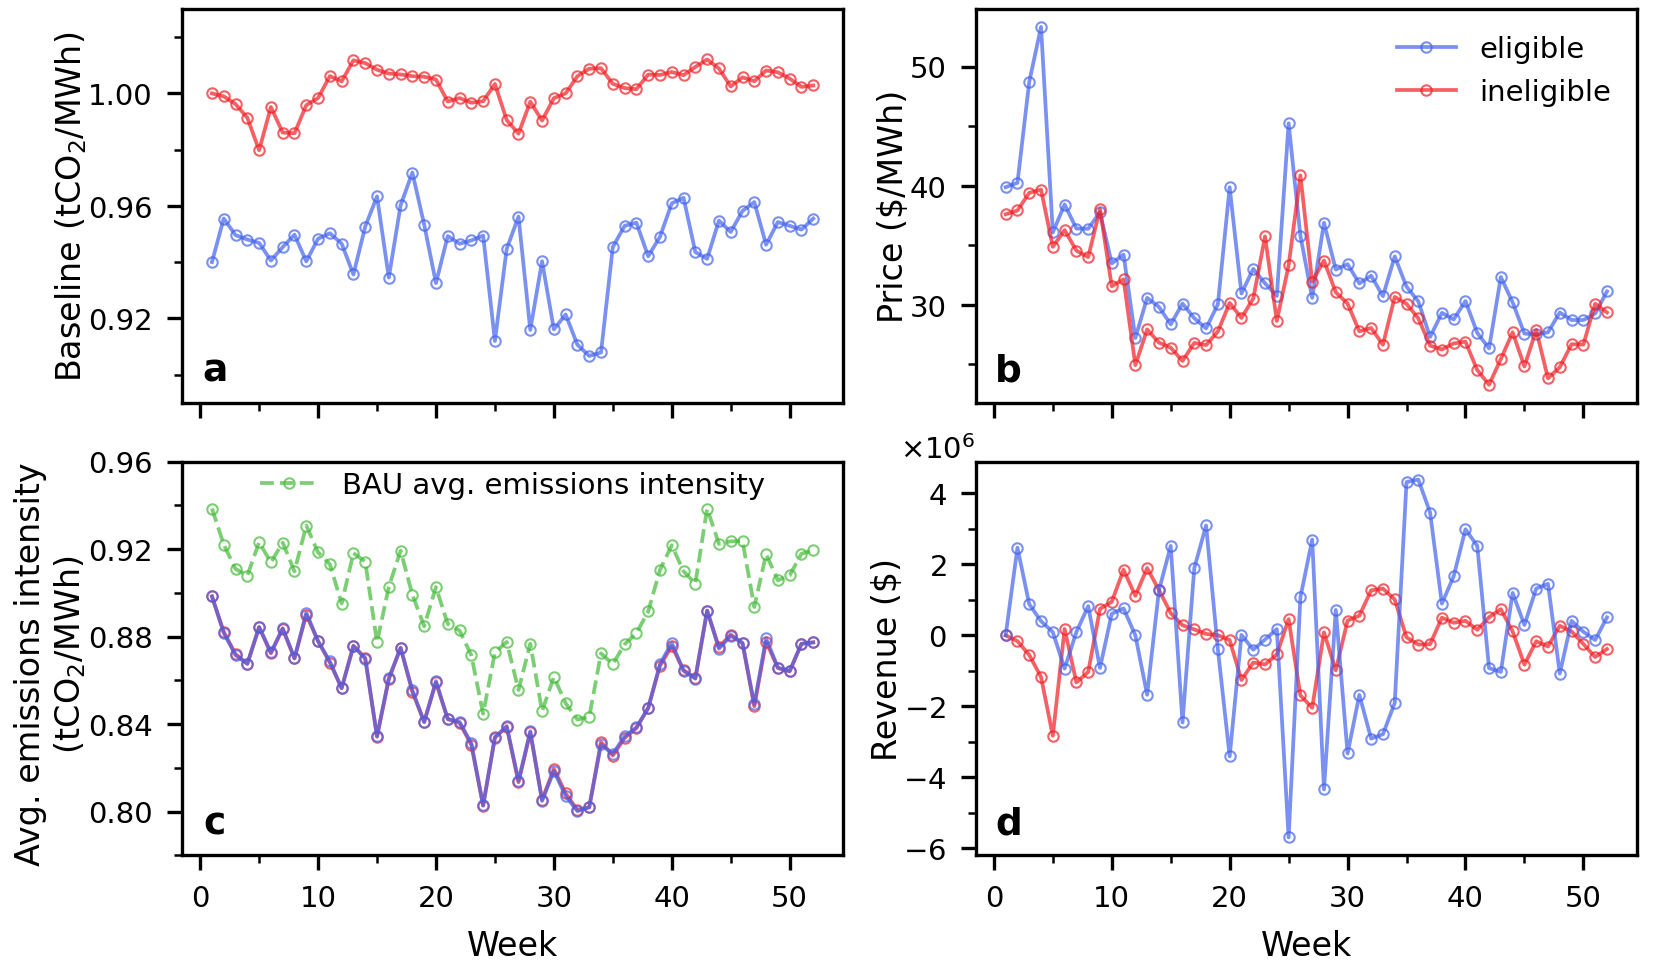
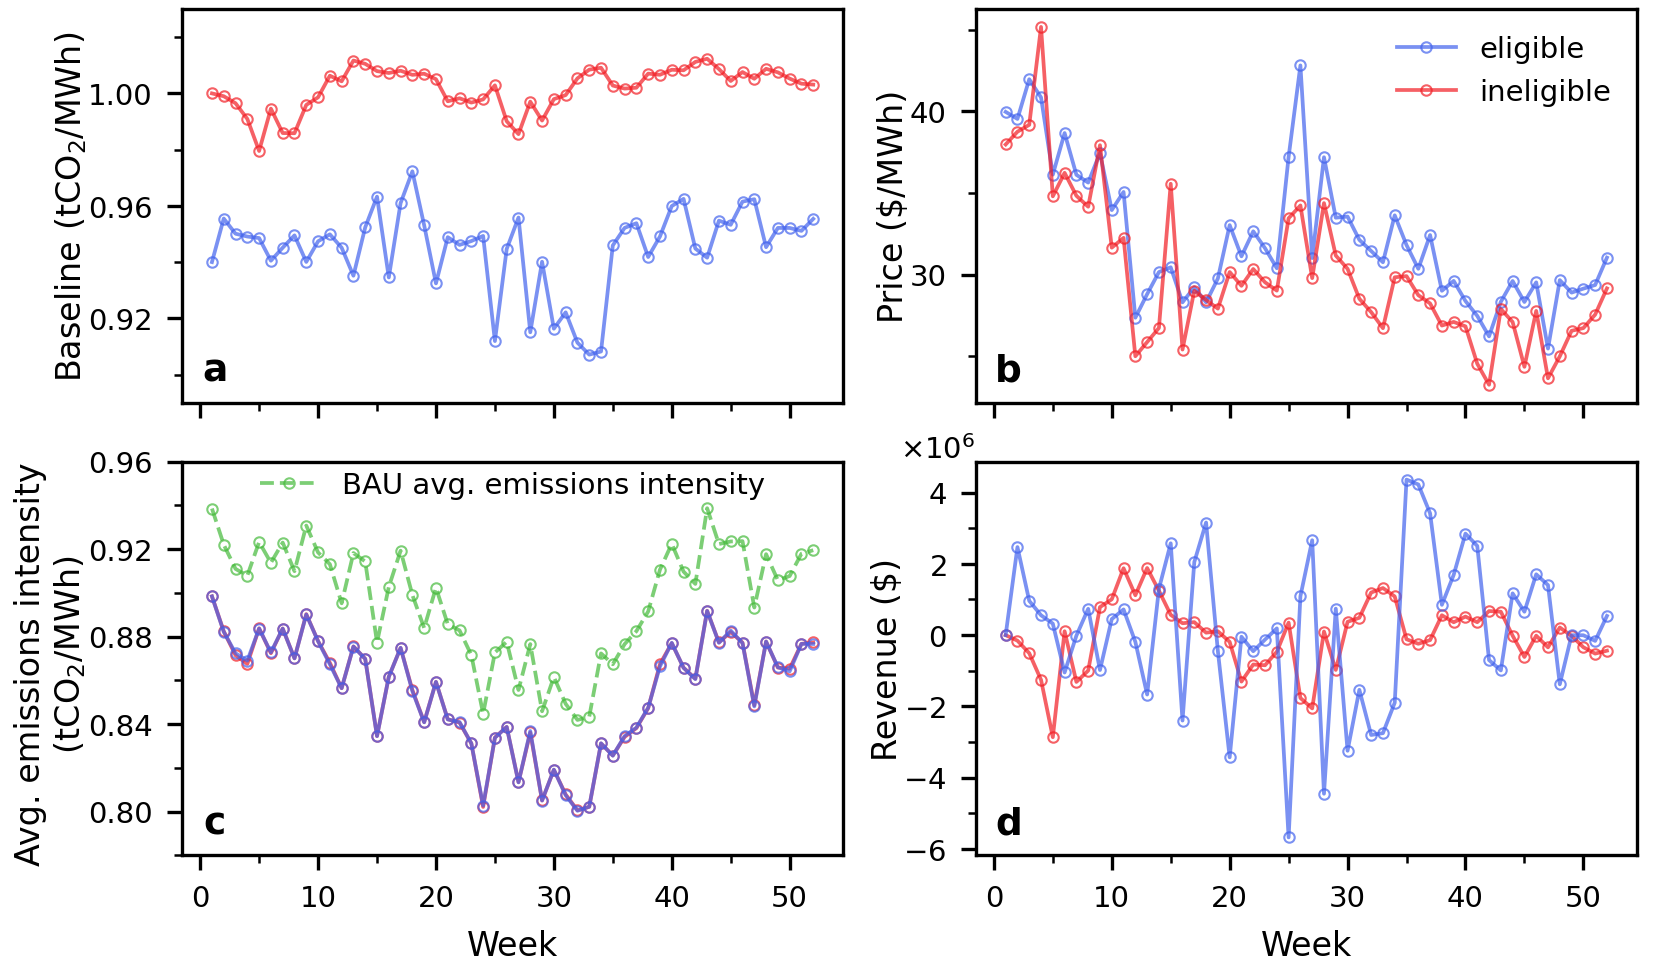
(Update) Updating figures and table following model re-run

diff --git a/src/3_analysis/output/tables/summary_table_formatted.tex b/src/3_analysis/output/tables/summary_table_formatted.tex
@@ -3,24 +3,24 @@
               &      & \multicolumn{4}{c}{Baseline (tCO$_{2}$/MWh)} & \multicolumn{4}{c}{Revenue imbalance (M\$)} & \multicolumn{4}{c}{Price (\$/MWh)} & Emissions (MtCO$_{2}$) \\
               &      &                     mean &    std &    min &    max &                    mean &    std &     min &    max &           mean &   std &    min &    max &                  total \\
 \midrule
-\multicolumn{2}{l}{Benchmark} &&&&&&&&&&&&&\\ & BAU &                        - &      - &      - &      - &                       - &      - &       - &      - &          30.72 &  5.53 &  23.71 &  48.93 &                 169.42 \\
-              & Carbon tax &                        - &      - &      - &      - &                       - &      - &       - &      - &          69.72 &  5.10 &  62.99 &  84.72 &                 161.50 \\
-&&&&&&&&&&&&&& \\ \multicolumn{2}{l}{Revenue neutral} &&&&&&&&&&&&&\\ & 1 CI$^{\dagger}$ &                    1.002 &  0.013 &  0.965 &  1.024 &                   -0.02 &   0.97 &   -2.70 &   2.74 &          29.99 &  4.66 &  23.82 &  45.26 &                 161.47 \\
-              & 2 CI &                    1.002 &  0.008 &  0.977 &  1.013 &                   -0.02 &   0.76 &   -2.09 &   1.44 &          29.91 &  4.21 &  23.69 &  39.52 &                 161.52 \\
-              & 3 CI &                    1.002 &  0.007 &  0.980 &  1.012 &                   -0.02 &   0.92 &   -2.83 &   1.89 &          29.95 &  4.53 &  23.29 &  40.87 &                 161.46 \\
-              & 4 CI &                    1.002 &  0.007 &  0.984 &  1.010 &                    0.01 &   1.10 &   -2.91 &   2.32 &          29.75 &  4.06 &  23.91 &  39.59 &                 161.49 \\
-              & 5 CI &                    1.002 &  0.007 &  0.986 &  1.012 &                    0.05 &   1.34 &   -3.14 &   2.61 &          29.94 &  4.53 &  23.54 &  44.53 &                 161.50 \\
-              & 6 CI &                    1.002 &  0.007 &  0.987 &  1.010 &                    0.09 &   1.48 &   -3.29 &   2.68 &          30.17 &  4.93 &  23.59 &  47.33 &                 161.50 \\
-&&&&&&&&&&&&&& \\ \multicolumn{2}{l}{Revenue target} &&&&&&&&&&&&&\\ & 1 CI &                    0.997 &  0.015 &  0.965 &  1.024 &                   -0.03 &   0.96 &   -2.70 &   2.74 &          30.34 &  4.61 &  23.30 &  45.26 &                 161.49 \\
-              & 3 CI &                    0.997 &  0.010 &  0.980 &  1.012 &                   -0.03 &   1.13 &   -2.83 &   3.07 &          30.03 &  4.30 &  23.25 &  40.17 &                 161.52 \\
-              & 6 CI &                    0.997 &  0.009 &  0.978 &  1.012 &                    0.03 &   2.01 &   -3.74 &   4.17 &          30.17 &  4.55 &  23.54 &  47.33 &                 161.50 \\
-&&&&&&&&&&&&&& \\ \multicolumn{2}{l}{Anticipated shock} &&&&&&&&&&&&&\\& 1 CI &                    0.859 &  0.062 &  0.813 &  1.024 &                   -0.09 &   0.87 &   -2.92 &   2.74 &          31.09 &  4.15 &  25.12 &  45.26 &                 138.98 \\
-              & 3 CI &                    0.859 &  0.058 &  0.823 &  1.000 &                    0.30 &   2.43 &   -2.83 &  15.10 &          31.37 &  4.11 &  25.38 &  39.68 &                 138.95 \\
-              & 6 CI &                    0.860 &  0.054 &  0.824 &  1.000 &                    1.94 &   6.10 &   -3.29 &  30.20 &          31.42 &  4.82 &  24.80 &  47.33 &                 138.97 \\
-&&&&&&&&&&&&&& \\ \multicolumn{2}{l}{Unanticipated shock} &&&&&&&&&&&&&\\ & 1 CI &                    0.860 &  0.068 &  0.704 &  1.024 &                   -0.36 &   2.46 &  -16.85 &   2.74 &          31.76 &  5.27 &  24.99 &  50.09 &                 139.12 \\
-              & 3 CI &                    0.860 &  0.066 &  0.796 &  1.000 &                   -1.75 &   4.68 &  -20.91 &   0.95 &          31.36 &  3.95 &  25.53 &  43.01 &                 139.10 \\
-              & 6 CI &                    0.860 &  0.068 &  0.801 &  1.000 &                   -5.73 &  10.13 &  -33.12 &   0.85 &          31.35 &  4.36 &  25.06 &  47.33 &                 139.12 \\
-&&&&&&&&&&&&&& \\ \multicolumn{2}{l}{Renewables eligibility} &&&&&&&&&&&&&\\& 3 CI &                    0.945 &  0.015 &  0.907 &  0.972 &                    0.17 &   2.09 &   -5.69 &   4.39 &          32.74 &  5.49 &  26.35 &  53.35 &                 161.48 \\
-&&&&&&&&&&&&&& \\ \multicolumn{2}{l}{Revenue floor} &&&&&&&&&&&&&\\& 3 CI &                    1.002 &  0.008 &  0.970 &  1.012 &                    0.25 &   0.94 &   -2.53 &   2.25 &          30.06 &  4.35 &  23.82 &  41.55 &                 161.47 \\
+\multicolumn{2}{l}{Benchmark} &&&&&&&&&&&&&\\ & BAU &                        - &      - &      - &      - &                       - &      - &       - &      - &          30.33 &  5.17 &  23.75 &  44.03 &                 169.42 \\
+              & Carbon tax &                        - &      - &      - &      - &                       - &      - &       - &      - &          69.83 &  5.02 &  63.02 &  86.39 &                 161.47 \\
+&&&&&&&&&&&&&& \\ \multicolumn{2}{l}{Revenue neutral} &&&&&&&&&&&&&\\ & 1 CI$^{\dagger}$ &                    1.002 &  0.012 &  0.963 &  1.024 &                   -0.02 &   0.94 &   -2.86 &   2.61 &          29.79 &  4.70 &  23.40 &  44.81 &                 161.49 \\
+              & 2 CI &                    1.002 &  0.008 &  0.975 &  1.013 &                   -0.02 &   0.77 &   -2.36 &   1.48 &          30.04 &  4.41 &  23.71 &  39.81 &                 161.48 \\
+              & 3 CI &                    1.002 &  0.008 &  0.980 &  1.012 &                   -0.01 &   0.93 &   -2.86 &   1.88 &          30.06 &  4.56 &  23.27 &  45.17 &                 161.48 \\
+              & 4 CI &                    1.002 &  0.007 &  0.984 &  1.011 &                    0.02 &   1.10 &   -2.90 &   2.33 &          30.21 &  4.58 &  23.80 &  46.65 &                 161.48 \\
+              & 5 CI &                    1.002 &  0.007 &  0.985 &  1.010 &                    0.04 &   1.36 &   -3.46 &   2.57 &          30.56 &  5.28 &  23.73 &  47.19 &                 161.48 \\
+              & 6 CI &                    1.002 &  0.007 &  0.987 &  1.011 &                    0.10 &   1.51 &   -3.28 &   2.79 &          29.74 &  4.49 &  23.64 &  44.72 &                 161.51 \\
+&&&&&&&&&&&&&& \\ \multicolumn{2}{l}{Revenue target} &&&&&&&&&&&&&\\ & 1 CI &                    0.997 &  0.015 &  0.963 &  1.024 &                   -0.03 &   0.95 &   -2.86 &   2.61 &          30.00 &  4.32 &  23.75 &  44.81 &                 161.48 \\
+              & 3 CI &                    0.997 &  0.010 &  0.980 &  1.010 &                   -0.03 &   1.13 &   -2.86 &   2.95 &          30.07 &  4.36 &  23.78 &  45.17 &                 161.48 \\
+              & 6 CI &                    0.997 &  0.009 &  0.978 &  1.010 &                    0.02 &   2.00 &   -3.79 &   4.16 &          30.17 &  4.54 &  23.70 &  44.72 &                 161.48 \\
+&&&&&&&&&&&&&& \\ \multicolumn{2}{l}{Anticipated shock} &&&&&&&&&&&&&\\& 1 CI &                    0.859 &  0.063 &  0.813 &  1.024 &                   -0.09 &   0.88 &   -2.86 &   2.61 &          31.41 &  4.09 &  25.34 &  44.81 &                 138.94 \\
+              & 3 CI &                    0.860 &  0.057 &  0.823 &  1.000 &                    0.30 &   2.45 &   -2.86 &  15.29 &          31.13 &  4.16 &  24.86 &  45.17 &                 138.98 \\
+              & 6 CI &                    0.860 &  0.054 &  0.824 &  1.000 &                    1.94 &   6.10 &   -3.28 &  30.17 &          31.12 &  4.36 &  24.70 &  44.72 &                 138.98 \\
+&&&&&&&&&&&&&& \\ \multicolumn{2}{l}{Unanticipated shock} &&&&&&&&&&&&&\\ & 1 CI &                    0.860 &  0.069 &  0.705 &  1.024 &                   -0.36 &   2.45 &  -16.79 &   2.61 &          31.12 &  4.14 &  24.99 &  44.81 &                 139.14 \\
+              & 3 CI &                    0.860 &  0.066 &  0.795 &  1.000 &                   -1.74 &   4.68 &  -20.88 &   1.00 &          31.65 &  4.50 &  25.55 &  45.17 &                 139.13 \\
+              & 6 CI &                    0.860 &  0.068 &  0.801 &  1.000 &                   -5.74 &  10.12 &  -33.12 &   0.84 &          31.11 &  3.97 &  24.96 &  44.72 &                 139.11 \\
+&&&&&&&&&&&&&& \\ \multicolumn{2}{l}{Renewables eligibility} &&&&&&&&&&&&&\\& 3 CI &                    0.945 &  0.015 &  0.907 &  0.972 &                    0.17 &   2.09 &   -5.67 &   4.36 &          32.21 &  4.18 &  25.48 &  42.82 &                 161.48 \\
+&&&&&&&&&&&&&& \\ \multicolumn{2}{l}{Revenue floor} &&&&&&&&&&&&&\\& 3 CI &                    1.002 &  0.008 &  0.971 &  1.012 &                    0.24 &   0.93 &   -2.50 &   2.23 &          29.95 &  4.56 &  23.50 &  41.43 &                 161.48 \\
 \bottomrule
 \end{tabular}

diff --git a/src/3_analysis/output/tables/summary_table.tex b/src/3_analysis/output/tables/summary_table.tex
@@ -3,24 +3,24 @@
               &      & \multicolumn{4}{c}{Baseline (tCO$_{2}$/MWh)} & \multicolumn{4}{c}{Revenue imbalance (M\$)} & \multicolumn{4}{c}{Price (\$/MWh)} & Emissions (MtCO$_{2}$) \\
               &      &                     mean &    std &    min &    max &                    mean &    std &     min &    max &           mean &   std &    min &    max &                  total \\
 \midrule
-Benchmark & BAU &                        - &      - &      - &      - &                       - &      - &       - &      - &          30.72 &  5.53 &  23.71 &  48.93 &                 169.42 \\
-              & Carbon tax &                        - &      - &      - &      - &                       - &      - &       - &      - &          69.72 &  5.10 &  62.99 &  84.72 &                 161.50 \\
-revenue neutral & 1 CI$^{\dagger}$ &                    1.002 &  0.013 &  0.965 &  1.024 &                   -0.02 &   0.97 &   -2.70 &   2.74 &          29.99 &  4.66 &  23.82 &  45.26 &                 161.47 \\
-              & 2 CI &                    1.002 &  0.008 &  0.977 &  1.013 &                   -0.02 &   0.76 &   -2.09 &   1.44 &          29.91 &  4.21 &  23.69 &  39.52 &                 161.52 \\
-              & 3 CI &                    1.002 &  0.007 &  0.980 &  1.012 &                   -0.02 &   0.92 &   -2.83 &   1.89 &          29.95 &  4.53 &  23.29 &  40.87 &                 161.46 \\
-              & 4 CI &                    1.002 &  0.007 &  0.984 &  1.010 &                    0.01 &   1.10 &   -2.91 &   2.32 &          29.75 &  4.06 &  23.91 &  39.59 &                 161.49 \\
-              & 5 CI &                    1.002 &  0.007 &  0.986 &  1.012 &                    0.05 &   1.34 &   -3.14 &   2.61 &          29.94 &  4.53 &  23.54 &  44.53 &                 161.50 \\
-              & 6 CI &                    1.002 &  0.007 &  0.987 &  1.010 &                    0.09 &   1.48 &   -3.29 &   2.68 &          30.17 &  4.93 &  23.59 &  47.33 &                 161.50 \\
-revenue target & 1 CI &                    0.997 &  0.015 &  0.965 &  1.024 &                   -0.03 &   0.96 &   -2.70 &   2.74 &          30.34 &  4.61 &  23.30 &  45.26 &                 161.49 \\
-              & 3 CI &                    0.997 &  0.010 &  0.980 &  1.012 &                   -0.03 &   1.13 &   -2.83 &   3.07 &          30.03 &  4.30 &  23.25 &  40.17 &                 161.52 \\
-              & 6 CI &                    0.997 &  0.009 &  0.978 &  1.012 &                    0.03 &   2.01 &   -3.74 &   4.17 &          30.17 &  4.55 &  23.54 &  47.33 &                 161.50 \\
-anticipated shock & 1 CI &                    0.859 &  0.062 &  0.813 &  1.024 &                   -0.09 &   0.87 &   -2.92 &   2.74 &          31.09 &  4.15 &  25.12 &  45.26 &                 138.98 \\
-              & 3 CI &                    0.859 &  0.058 &  0.823 &  1.000 &                    0.30 &   2.43 &   -2.83 &  15.10 &          31.37 &  4.11 &  25.38 &  39.68 &                 138.95 \\
-              & 6 CI &                    0.860 &  0.054 &  0.824 &  1.000 &                    1.94 &   6.10 &   -3.29 &  30.20 &          31.42 &  4.82 &  24.80 &  47.33 &                 138.97 \\
-unanticipated shock & 1 CI &                    0.860 &  0.068 &  0.704 &  1.024 &                   -0.36 &   2.46 &  -16.85 &   2.74 &          31.76 &  5.27 &  24.99 &  50.09 &                 139.12 \\
-              & 3 CI &                    0.860 &  0.066 &  0.796 &  1.000 &                   -1.75 &   4.68 &  -20.91 &   0.95 &          31.36 &  3.95 &  25.53 &  43.01 &                 139.10 \\
-              & 6 CI &                    0.860 &  0.068 &  0.801 &  1.000 &                   -5.73 &  10.13 &  -33.12 &   0.85 &          31.35 &  4.36 &  25.06 &  47.33 &                 139.12 \\
-Renewables eligibility & 3 CI &                    0.945 &  0.015 &  0.907 &  0.972 &                    0.17 &   2.09 &   -5.69 &   4.39 &          32.74 &  5.49 &  26.35 &  53.35 &                 161.48 \\
-Revenue floor & 3 CI &                    1.002 &  0.008 &  0.970 &  1.012 &                    0.25 &   0.94 &   -2.53 &   2.25 &          30.06 &  4.35 &  23.82 &  41.55 &                 161.47 \\
+Benchmark & BAU &                        - &      - &      - &      - &                       - &      - &       - &      - &          30.33 &  5.17 &  23.75 &  44.03 &                 169.42 \\
+              & Carbon tax &                        - &      - &      - &      - &                       - &      - &       - &      - &          69.83 &  5.02 &  63.02 &  86.39 &                 161.47 \\
+revenue neutral & 1 CI$^{\dagger}$ &                    1.002 &  0.012 &  0.963 &  1.024 &                   -0.02 &   0.94 &   -2.86 &   2.61 &          29.79 &  4.70 &  23.40 &  44.81 &                 161.49 \\
+              & 2 CI &                    1.002 &  0.008 &  0.975 &  1.013 &                   -0.02 &   0.77 &   -2.36 &   1.48 &          30.04 &  4.41 &  23.71 &  39.81 &                 161.48 \\
+              & 3 CI &                    1.002 &  0.008 &  0.980 &  1.012 &                   -0.01 &   0.93 &   -2.86 &   1.88 &          30.06 &  4.56 &  23.27 &  45.17 &                 161.48 \\
+              & 4 CI &                    1.002 &  0.007 &  0.984 &  1.011 &                    0.02 &   1.10 &   -2.90 &   2.33 &          30.21 &  4.58 &  23.80 &  46.65 &                 161.48 \\
+              & 5 CI &                    1.002 &  0.007 &  0.985 &  1.010 &                    0.04 &   1.36 &   -3.46 &   2.57 &          30.56 &  5.28 &  23.73 &  47.19 &                 161.48 \\
+              & 6 CI &                    1.002 &  0.007 &  0.987 &  1.011 &                    0.10 &   1.51 &   -3.28 &   2.79 &          29.74 &  4.49 &  23.64 &  44.72 &                 161.51 \\
+revenue target & 1 CI &                    0.997 &  0.015 &  0.963 &  1.024 &                   -0.03 &   0.95 &   -2.86 &   2.61 &          30.00 &  4.32 &  23.75 &  44.81 &                 161.48 \\
+              & 3 CI &                    0.997 &  0.010 &  0.980 &  1.010 &                   -0.03 &   1.13 &   -2.86 &   2.95 &          30.07 &  4.36 &  23.78 &  45.17 &                 161.48 \\
+              & 6 CI &                    0.997 &  0.009 &  0.978 &  1.010 &                    0.02 &   2.00 &   -3.79 &   4.16 &          30.17 &  4.54 &  23.70 &  44.72 &                 161.48 \\
+anticipated shock & 1 CI &                    0.859 &  0.063 &  0.813 &  1.024 &                   -0.09 &   0.88 &   -2.86 &   2.61 &          31.41 &  4.09 &  25.34 &  44.81 &                 138.94 \\
+              & 3 CI &                    0.860 &  0.057 &  0.823 &  1.000 &                    0.30 &   2.45 &   -2.86 &  15.29 &          31.13 &  4.16 &  24.86 &  45.17 &                 138.98 \\
+              & 6 CI &                    0.860 &  0.054 &  0.824 &  1.000 &                    1.94 &   6.10 &   -3.28 &  30.17 &          31.12 &  4.36 &  24.70 &  44.72 &                 138.98 \\
+unanticipated shock & 1 CI &                    0.860 &  0.069 &  0.705 &  1.024 &                   -0.36 &   2.45 &  -16.79 &   2.61 &          31.12 &  4.14 &  24.99 &  44.81 &                 139.14 \\
+              & 3 CI &                    0.860 &  0.066 &  0.795 &  1.000 &                   -1.74 &   4.68 &  -20.88 &   1.00 &          31.65 &  4.50 &  25.55 &  45.17 &                 139.13 \\
+              & 6 CI &                    0.860 &  0.068 &  0.801 &  1.000 &                   -5.74 &  10.12 &  -33.12 &   0.84 &          31.11 &  3.97 &  24.96 &  44.72 &                 139.11 \\
+Renewables eligibility & 3 CI &                    0.945 &  0.015 &  0.907 &  0.972 &                    0.17 &   2.09 &   -5.67 &   4.36 &          32.21 &  4.18 &  25.48 &  42.82 &                 161.48 \\
+Revenue floor & 3 CI &                    1.002 &  0.008 &  0.971 &  1.012 &                    0.24 &   0.93 &   -2.50 &   2.23 &          29.95 &  4.56 &  23.50 &  41.43 &                 161.48 \\
 \bottomrule
 \end{tabular}
